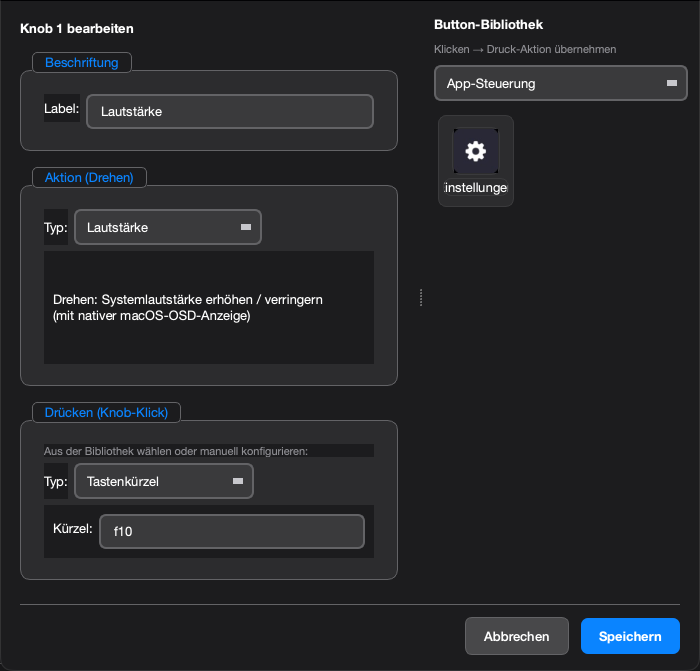
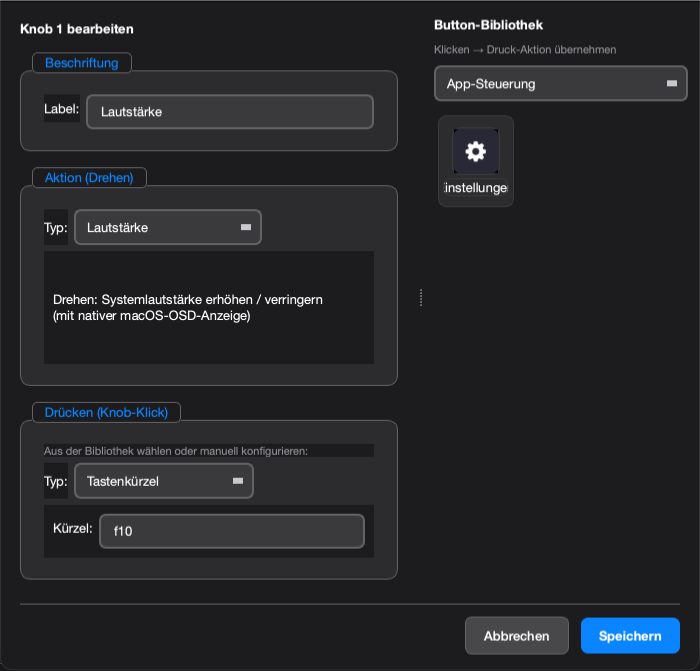
chore: move project to ~/kDrive/01 Eigene Programme/DeckPad
- Update CLAUDE.md with new project path
- Update hardcoded path in scenes.py (calendar_icon.png)
- Carry over locally modified knob_editor screenshot

Previous location: /Volumes/Daten Johannes/08 Promotion/04 Software/AJAZZ AKP03E/
New location:      ~/kDrive/01 Eigene Programme/DeckPad/

diff --git a/scenes.py b/scenes.py
@@ -51,7 +51,7 @@ SCENE_PRODUKTIVITAET = Scene(
                app_path="/Applications/05 Prototyp/Claude.app"),
         Button("Kalender",  "📅", (140, 50, 140),
                lambda: actions.open_app("Calendar"),
-               app_path="/Volumes/Daten Johannes/08 Promotion/04 Software/AJAZZ AKP03E/assets/calendar_icon.png"),
+               app_path="/Users/johannesluschow/kDrive/01 Eigene Programme/DeckPad/assets/calendar_icon.png"),
         Button("Mail",      "✉", (180, 50, 50),
                lambda: actions.open_app("Mail"),
                app_path="/System/Applications/Mail.app"),

diff --git a/CLAUDE.md b/CLAUDE.md
@@ -113,3 +113,15 @@ Kein Dateiformat-Change. Kein Change an scene_widget.py oder button_editor.py
 - Button-Bibliothek: `data/library/buttons.json`
 - Seiten-Bibliothek: `data/library/pages/`
 - Autostart-Plist (macOS): `~/Library/LaunchAgents/app.deckpad.plist`
+
+## Projekt-Pfad
+
+```
+/Users/johannesluschow/kDrive/01 Eigene Programme/DeckPad/
+```
+
+```bash
+# Starten
+cd "/Users/johannesluschow/kDrive/01 Eigene Programme/DeckPad"
+python3 app_main.py
+```
